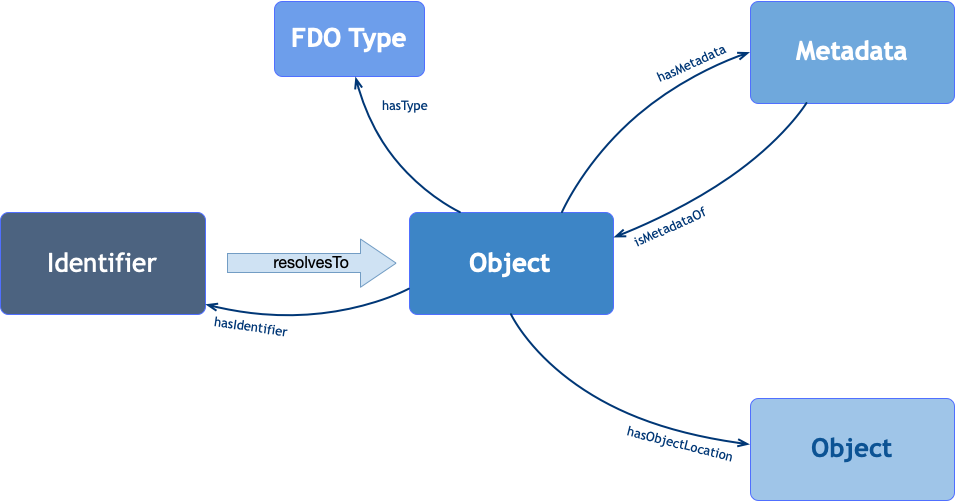
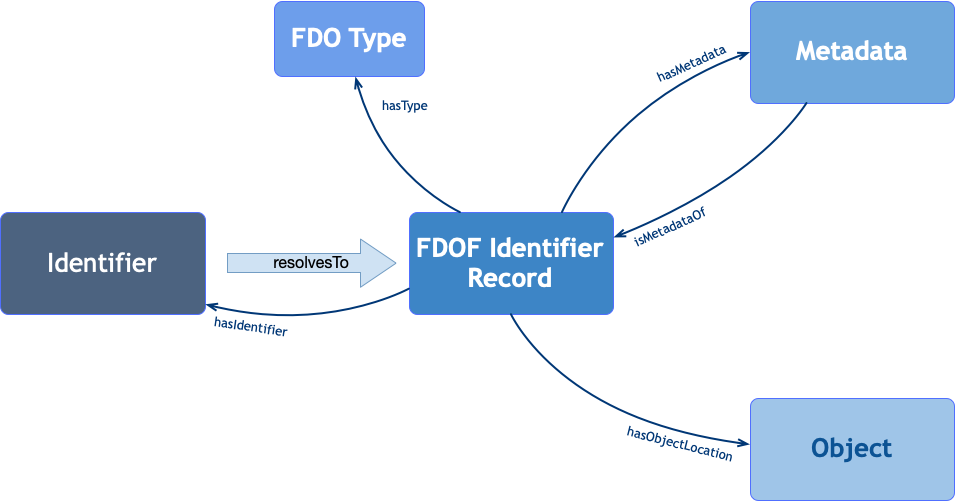
Adjusted figure FDOF-IR

Changed region(s): [[0.4247, 0.4491, 0.637, 0.5988]]

diff --git a/index.html b/index.html
@@ -1,29 +1,32 @@
 <!doctype html><html lang="en">
- <head>
-  <meta charset="utf-8">
-  <meta content="text/html; charset=utf-8" http-equiv="Content-Type">
-  <meta name="viewport" content="width=device-width, initial-scale=1, shrink-to-fit=no">
-  <title>FAIR Digital Object Framework Documentation</title>
-  <link rel="stylesheet" href="W3C-REC.css">
-  <style>
-  .example::before {
-    content: "Example";
-    content: "Example " counter(example);
-  }
-  #example + p + p.example::before {
-    content: "";
-  }
-  .overlarge {
-    margin: 0 !important;
-  }
-  </style>
- </head>
- <body class="h-entry">
-  <div class="head">
-   <h1 id="title">FAIR Digital Object Framework Documentation</h1>
-   <h2 id="subtitle">Working Draft, <time class="dt-updated" datetime="2020-04-05">05 April 2020</time></h2>
-   <div>
-    <dl>
+
+	<head>
+		<meta charset="utf-8">
+		<meta content="text/html; charset=utf-8" http-equiv="Content-Type">
+		<meta name="viewport" content="width=device-width, initial-scale=1, shrink-to-fit=no">
+		<title>FAIR Digital Object Framework Documentation</title>
+		<link rel="stylesheet" href="W3C-REC.css">
+		<style>
+			.example::before {
+				content: "Example";
+				content: "Example " counter(example);
+			}
+			#example + p + p.example::before {
+				content: "";
+			}
+			.overlarge {
+				margin: 0 !important;
+			}
+		</style>
+	</head>
+	
+	<body class="h-entry">
+		<div class="head">
+			<h1 id="title">FAIR Digital Object Framework Documentation</h1>
+			<h2 id="subtitle">Working Draft, <time class="dt-updated" datetime="2020-04-05">05 April 2020</time></h2>
+			
+			<div>
+				<dl>
      <!--dt>This version:
      <dd><a class="u-url" href="http://fantasai.inkedblade.net/style/design/w3c-restyle/2016/">http://fantasai.inkedblade.net/style/design/w3c-restyle/2016/</a>
      <dt>Latest version:
@@ -37,22 +40,23 @@
      <dt>Issue Tracking:
      <dd><a href="https://github.com/w3c/tr-design/issues/">GitHub</a>
      <dd><a href="#issues-index">Inline In Spec</a-->
-     <dt class="editor">Editor:
-     <dd class="editor p-author h-card vcard"><a class="p-name fn u-url url" href="mailto:l.o.bonino@utwente.nl">Luiz Olavo Bonino da Silva Santos</a> (<span class="p-org org">University of Twente, Leiden University Medical Center, GO FAIR International Support and Coordination Office</span>)
-    </dl>
-   </div>
-   <div></div>
-   <hr title="Separator for header">
-  </div>
-  <h2 id="abstract">Abstract</h2>
-  <div>
-	  <p>The FAIR Digital Object Framework (FDOF) defines a model to represent objects in a digital environment. This document discusses the motivations for the framework and describes its elements and the interactions between them.</p>
-  </div>
-  <h2 id="status">Status of this document</h2>
-  <div>
-   <p>This document is the first draft of the FDOF documentation and serves as the basis for the further development and refinement of the framework.</p>
-   <p></p>
-  </div>
+
+					<dt class="editor">Editor:</dt>
+					<dd class="editor p-author h-card vcard"><a class="p-name fn u-url url" href="mailto:l.o.bonino@utwente.nl">Luiz Olavo Bonino da Silva Santos</a> (<span class="p-org org">University of Twente, Leiden University Medical Center, GO FAIR International Support and Coordination Office</span>)</dd>
+				</dl>
+			</div>
+			<div></div>
+			<hr title="Separator for header"/>
+		</div>
+		<h2 id="abstract">Abstract</h2>
+		<div>
+			<p>The FAIR Digital Object Framework (FDOF) defines a model to represent objects in a digital environment. This document discusses the motivations for the framework and describes its elements and the interactions between them.</p>
+		</div>
+		<h2 id="status">Status of this document</h2>
+		<div>
+			<p>This document is the first draft of the FDOF documentation and serves as the basis for the further development and refinement of the framework.</p>
+			<p></p>
+		</div>
 
 	 <!--
 <nav id="toc">
@@ -202,82 +206,86 @@
 </nav>
 
 -->
-<main>
-<h2 id="intro">
-<span class="secno">1 </span> Introduction</h2>
-  
-	<p>The <a href="https://www.nature.com/articles/sdata201618">FAIR principles</a> provide a vision of a global ecosystem of dynamically interoperable digital objects such as data, services and computing capacity. This vision entails the requirement to provide machines with  enough actionable information about each of these types of objects so they can automate as much as possible their integration and interoperation. However, to fully realise this vision, we need an infrastructure capable of supporting the interoperation of digital objects according to the requirements defined by the <a href="https://www.nature.com/articles/sdata201618">FAIR principles</a>.</p>
-	
-	<p>The evolution of the informatics infrastructure  happens in incremental and complementary steps. After the emergence of the computers we felt the need to interconnect them in computer networks. From this, a natural need emerged to integrate different computer networks, which was achieved on a global scale by the Internet through its Internet Protocol (IP) and TCP/UDP protocols. The Internet allows the transportation of digital packets/datagrams from a source  to a destination host across different networks. A given content to be transmitted is broken down in a number of parts named packets. A header is added to each packet containing information necessary to deliver the packet from the source host to its destination. Once all the packets reach the destination, their content is reassembled. Therefore, the Internet does not deal with content besides transporting it through different networks.</p>
-	
- <p>Once the problem of transporting digital content across different networks has been solved by the Internet, the next challenge in interoperability became the interlinking of Internet resources. The World Wide Web solves this problem by defining another protocol named the <a href="https://en.wikipedia.org/wiki/Hypertext_Transfer_Protocol">HyperText Transfer Protocol</a> (HTTP), which provides a mechanism to interrelate resources through hyperlinks. HTTP provides methods to retrieve, create, add, edit and delete Web resources. Web resources are differentiated, with respect to the WWW infrastructure, only by their serialisation formats (MIME types), e.g., an HTML page, an XML file, a JPG/GIF/PNG image, a MP4 video, etc. The actual nature of the resources, i.e., if they represent a given scientific observation, the results of a match or a person, and of the relations between resources are not considered by the Web infrastructure.</p>
-	
-	<p>For the work with data and metadata, these aforementioned infrastructures still pose challenges, especially if we add the requirements of the FAIR principles. The first principle (F1) states that metadata and data should be identified by globally unique and persistent identifiers. Related to this, the FAIR principle A1 requires that metadata and data are retrievable by their identifier using a standardized communications protocol. This means that from the identifiers we should be able to resolve them to something related to the identified entity. Some identifiers are an arbitrary sequence of characters (e.g., <a href="https://www.doi.org" target="_blank">DOI</a>) while others are already presented in a resolvable format (<a href="https://tools.ietf.org/html/rfc3986">URI</a>). With identifiers from the former case, unless the type of identifier and how to create a resolvable link from the identifier is previously known, it is not straightforward to resolve them. Moreover, once we manage to get the resolvable link and try to resolve it, another challenge is what to expect when the identifier is resolved. Currently we are lacking a commonly agreed and predictable resolution behavior, which is an obstacle for artificial agents since, in some occasions, an identifier resolves to its target object, some other times to its metadata and other times to a human-readable HTML landing page.</p>
-	
-	<p>These identified challenges to apply the FAIR principles in the current communication infrastructure were the main motivators for the work on FDOF. And the initial results of this work is reported in this document</p>
 
-<h2 id="fdofhistory">
-<span class="secno">2 </span>A brief history of Digital Objects, FAIR Digital Objects and FAIR Digital Object Framework</h2>
-	
-	<p>The concept of <strong>Digital Object</strong> (DO) (in capital letters to denote a particular definition for representing and manipulating digital entities) has been introduced by Robert Kahn in the early 1990s. In his work, Kahn, and later other colleagues, define <em>digital objects</em> as the basic entities of a digital system that are stored, accessed, disseminated and managed. They also defined naming conventions for identifying and locating digital objects as well as described services for using object names to locate and disseminate objects, and provided an access protocol.</p>
-	
-	<p>Later on, the work on DOs has been improved by the definition of the Digital Object Achitecture (DOA) to address the need to support information management beyond just moving information in digital form from one location to another as allowed by the internet. DOA aims at improving interoperability across participating information systems. As defined by the <a href="https://www.dona.net/">DONA Foundation</a> in its<a hreaf="https://www.dona.net/digitalobjectarchitecture"> DOA page, the Digital Object Architecture is composed of:</p>
-	
-	<ul>
-		<li><strong>Digital Object</strong>: "<em>a sequence of bits, or a set of sequences of bits, incorporating a work or portion of a work or other information in which a party has rights or interests, or in which there is value, each of the sequences being structured in a way that is interpretable by one or more of the computational facilities, and having as an essential element an associated unique persistent identifier.</em>"</li>
-		<li><strong>Digital Object Interface Protocol (DOIP)</strong>: "<em>a simple, but powerful conceptual protocol for software applications (“clients”) to interact with “services” which could be either the digital objects or the information systems that manage those digital objects.</em>". The latest specification of DOIP can be found <a href="https://www.dona.net/sites/default/files/2018-11/DOIPv2Spec_1.pdf">here</a>.</li>
-		<li><strong>Identifier/Resolution Protocol (IRP)</strong>: "<em>a rapid-resolution protocol for creating, updating, deleting, and resolving identifiers that are globally managed and allotted. Each identifier is associated with a record that clients can resolve to using this protocol.</em>". </li>
-		<li><strong>Identifier/Resolution System</strong>: the system enables:
+		<main>
+			<h2 id="intro"><span class="secno">1 </span> Introduction</h2>
+			
+			<p>The <a href="https://www.nature.com/articles/sdata201618">FAIR principles</a> provide a vision of a global ecosystem of dynamically interoperable digital objects such as data, services and computing capacity. This vision entails the requirement to provide machines with  enough actionable information about each of these types of objects so they can automate as much as possible their integration and interoperation. However, to fully realise this vision, we need an infrastructure capable of supporting the interoperation of digital objects according to the requirements defined by the <a href="https://www.nature.com/articles/sdata201618">FAIR principles</a>.</p>
+			
+			<p>The evolution of the informatics infrastructure  happens in incremental and complementary steps. After the emergence of the computers we felt the need to interconnect them in computer networks. From this, a natural need emerged to integrate different computer networks, which was achieved on a global scale by the Internet through its Internet Protocol (IP) and TCP/UDP protocols. The Internet allows the transportation of digital packets/datagrams from a source  to a destination host across different networks. A given content to be transmitted is broken down in a number of parts named packets. A header is added to each packet containing information necessary to deliver the packet from the source host to its destination. Once all the packets reach the destination, their content is reassembled. Therefore, the Internet does not deal with content besides transporting it through different networks.</p>
+
+			<p>Once the problem of transporting digital content across different networks has been solved by the Internet, the next challenge in interoperability became the interlinking of Internet resources. The World Wide Web solves this problem by defining another protocol named the <a href="https://en.wikipedia.org/wiki/Hypertext_Transfer_Protocol">HyperText Transfer Protocol</a> (HTTP), which provides a mechanism to interrelate resources through hyperlinks. HTTP provides methods to retrieve, create, add, edit and delete Web resources. Web resources are differentiated, with respect to the WWW infrastructure, only by their serialisation formats (MIME or media types), e.g., an HTML page, an XML file, a JPG/GIF/PNG image, a MP4 video, etc. The actual nature of the resources, i.e., if they represent a given scientific observation, the results of a match or a person, and of the relations between resources are not considered by the Web infrastructure.</p>
+
+			<p>In the digital realm, we constantly interact with different types of entities, or objects. Examples of such objects are software, software code, dataset and metadata, among others. These objects have different nature. For instance, the nature of a dataset is being a collection of data items grouped because they are interrelated somehow while a software code is a set of instructions written in a programming language that are compiled or interpreted by computers that guide their behaviour. Because of their different nature, each one of these types of digital objects require different ways of interaction. In an increasingly complex digital environment where automation becomes a necessity, the identification of these different types of digital objects become relevant as well as the qualification of the relations between them. This brings additional requirements to the digital ecosystem, which is not properly covered by the internet and World Wide Web.</p>
+
+			<p>The FAIR principles add yet another set of requirements for the aforementioned digital infrastructures. For instance, the first principle (F1) states that metadata and data should be identified by globally unique and persistent identifiers. Related to this, the FAIR principle A1 requires that metadata and data are retrievable by their identifier using a standardized communications protocol. This means that from the identifiers we should be able to resolve them to something related to the identified entity. Some identifiers are an arbitrary sequence of characters (e.g., <a href="https://www.doi.org" target="_blank">DOI</a>) while others are already presented in a resolvable format (<a href="https://tools.ietf.org/html/rfc3986">URI</a>). With identifiers from the former case, unless the type of identifier and how to create a resolvable link from the identifier is previously known, it is not straightforward to resolve them. Moreover, once we manage to get the resolvable link and try to resolve it, the next challenge is what to expect when the identifier is resolved. Currently we lack a commonly agreed and predictable resolution behavior, which is an obstacle for artificial agents since, in some occasions, an identifier resolves to its target object, some other times to its metadata and other times to a human-readable HTML landing page.</p>
+
+			<p>The challenges to apply the FAIR principles in the current digital communication infrastructure were the main motivators for the work on the FAIR Digital Object Framework. The results of this work are reported in this document</p>
+			
+			<h2 id="fdofhistory"><span class="secno">2 </span>A brief history of Digital Objects, FAIR Digital Objects and FAIR Digital Object Framework</h2>
+			
+			<p>The concept of <strong>Digital Object</strong> (DO) (in capital letters to denote a particular definition for representing and manipulating digital entities) has been introduced by Robert Kahn in the early 1990s. In his work, Kahn, and later other colleagues, define <em>digital objects</em> as the basic entities of a digital system that are stored, accessed, disseminated and managed. They also defined naming conventions for identifying and locating digital objects as well as described services for using object names to locate and disseminate objects, and provided an access protocol.</p>
+			
+			<p>Later on, the work on DOs has been improved by the definition of the Digital Object Achitecture (DOA) to address the need to support information management beyond just moving information in digital form from one location to another as allowed by the internet. DOA aims at improving interoperability across participating information systems. As defined by the <a href="https://www.dona.net/">DONA Foundation</a> in its <a href="https://www.dona.net/digitalobjectarchitecture">Digital Object Architecture</a> is composed of:</p>
+			
 			<ul>
-				<li>"<em>allotment of unique identifiers to information in digital form structured as digital objects regardless of the location of such information or the technology used to serve such information;</em>"</li>
-				<li>"<em>the resolution of the identifiers to current state information about the corresponding digital object, e.g., its location(s), access & usage policies, timestamps, and/or public keys.</em>"</li>
+				<li><strong>Digital Object</strong>: "<em>a sequence of bits, or a set of sequences of bits, incorporating a work or portion of a work or other information in which a party has rights or interests, or in which there is value, each of the sequences being structured in a way that is interpretable by one or more of the computational facilities, and having as an essential element an associated unique persistent identifier.</em>"</li>
+				
+				<li><strong>Digital Object Interface Protocol (DOIP)</strong>: "<em>a simple, but powerful conceptual protocol for software applications (“clients”) to interact with “services” which could be either the digital objects or the information systems that manage those digital objects.</em>". The latest specification of DOIP can be found <a href="https://www.dona.net/sites/default/files/2018-11/DOIPv2Spec_1.pdf">here</a>.</li>
+				
+				<li><strong>Identifier/Resolution Protocol (IRP)</strong>: "<em>a rapid-resolution protocol for creating, updating, deleting, and resolving identifiers that are globally managed and allotted. Each identifier is associated with a record that clients can resolve to using this protocol.</em>". </li>
+				
+				<li><strong>Identifier/Resolution System</strong>: the system enables:
+					<ul>
+						<li>"<em>allotment of unique identifiers to information in digital form structured as digital objects regardless of the location of such information or the technology used to serve such information;</em>"</li>
+						<li>"<em>the resolution of the identifiers to current state information about the corresponding digital object, e.g., its location(s), access & usage policies, timestamps, and/or public keys.</em>"</li>
+					</ul>
+				</li>
+				
+				<li><strong>Repository System</strong>: "<em>manages digital objects including the provision of access to such objects based on the use of identifiers, and with integrated security. Through the use of identifiers in the access protocol, the repository system abstracts away the details of the storage technologies from the clients enabling a long-lived mechanism for depositing and accessing digital objects. Access to this system is enabled using the DOIP.</em>"</li>
+				
+				<li><strong>Registry System</strong>: "<em>The registry system is a specialized repository system intended to store metadata about digital objects rather than the digital information itself, and typically stores metadata of digital objects that are managed by one or more repository systems. Access to this system is enabled using the DOIP as well.</em>"</li>
 			</ul>
-		</li>
-		<li><strong>Repository System</strong>: "<em>manages digital objects including the provision of access to such objects based on the use of identifiers, and with integrated security. Through the use of identifiers in the access protocol, the repository system abstracts away the details of the storage technologies from the clients enabling a long-lived mechanism for depositing and accessing digital objects. Access to this system is enabled using the DOIP.</em>"</li>
-		<li><strong>Registry System</strong>: "<em>The registry system is a specialized repository system intended to store metadata about digital objects rather than the digital information itself, and typically stores metadata of digital objects that are managed by one or more repository systems. Access to this system is enabled using the DOIP as well.</em>"</li>
-	</ul>
-	
-	<p>After the publication of the FAIR principles in March 2016, the idea around the Digital Objects evolved to the concept of a FAIR Digital Object in order to better align the features of DOs with the aspects highlighted by the FAIR principles. Since the FAIR principles put significant importance on metadata, one major adittion to the original concept of DO was the introduction of metadata as a particular type of digital object that is used to describe other objects.</p>
-	
-	<p>The term <strong>FAIR Digital Object</strong> (FDO) was first mentioned in a publication in November 2018 in the report named <a href="https://ec.europa.eu/info/publications/turning-fair-reality_en">Turning FAIR into reality</a>, of the European Commission's 2nd High-Level Expert Group on the European Open Science Cloud (EOSC). In this report the author state that the FAIR Digital Objects "<em>represent data, software or other research resources</em>" and "<em>must be accompanied by persistent identifiers, metadata and contextual documentation to enable discovery, citation and reuse</em>".</p>
-	
-	<p>After the publication of the report, the concept of FDO has been constantly worked and refined in a number of <a href="https://www.rd-alliance.org">RDA</a> Interest and Working groups, in particular by the Group of European Data Experts (GEDE).</p>
-	
-	<p>With the experience in designing technologies and approaches for realising the FAIR principles since the original meeting in January 2014, we have identified a number of challenges to accomplish this goal given the current technologic landscape. In 2019, Luiz Bonino tried to combine features from the (FAIR) Digital Objects with some approaches and features from the Linked Data community, in particular the Linked Data Platform. This experiment led to the emmergence of the FAIR Digital Object Framework (see details in the following sections), which adopts the predictable resolution behavior of the (FAIR) Digital Object approach, its idea of resolving the identifier into a set of information about the object, including its type, metadata and location, and using qualified concepts and relations from Linked Data to better provides machine-actionable semantic descriptions and annotations to the elements of the Framework.</p>
-	
-	<p>The proposal for the FDOF has been first discussed with Barend Mons and George Strawn and, after a few refinements, together with Peter Wittenburg, a series of meetings in Europe, the USA and online involving a number of stakeholders involved in both (F)DO (Peter Wittenburg, Larry Lannon, Robert Quick and others) and Linked Data (Jean-François Abramatic, Eric Prud-hommeaux and others) efforts. These meetings culminated in a gathering at the Paris Observatory on October 28 and 29, 2019. In this meeting a group of representatives of different research communities, RDA, CODATA, GO FAIR, US NAS and EOSC discussed the proposed approach, considered it a promissing candidate for the core technology of the FAIR ecosystem and committed to continue the refinement and evaluation of the framework towards a "<em>running code</em>" phase where a Proof-of-Concept (PoC) is implemented for testing and demonstration. In this context, this document aims at laying the basic description of the FDOF to guide the discussions around the framework and the implementation of the PoC.</p>
-	
-	
-<h2 id="fdomodel">
-<span class="secno">3 </span>The FAIR Digital Object model</h2>
-	
- <p role="note">TO DO: Describe the FDO model</p>
-
-	
-<h2 id="resbehaviour">
-<span class="secno">4 </span>Identifier resolution behaviour</h2>
-	
-	<p>In the context of machine-actionability, it is expected that identifiers of digital assets behave in a predictable way so that the artificial agents can know what to expect when an identifier is resolved. Currently, that is not always the case. Current identification systems (Handle system, URIs, etc.) rely on the user's discipline and best practices. For instance, on the Web, someone could use an URI to identify a particular PDF file but the URI may not resolve to anything or it may resolve to something else than the identified object, for instance an HTML page. Similarly, some DOIs resolve to the actual identified object, some to its metadata and many to a landing page. For artificial agents, landing pages are particularly challenging because it is not always (if ever) clear which of the potentially many links present in the page corresponds to the object identified by the DOI.</p>
-	
-	<p>To tackle this issue, the FDOF defines a predictable resolution behaviour. This behaviour is borrowed from the approach used by the Digital Object in which the identifier resolves to an artefact containing relevant information about the object. In FDOF, this artefact is named FDOF's Identifier Record (IR) and contains:</p>
-	
-	<ul>
-		<li>A reference to the object's type;</li>
-		<li>Reference(s) to the object's metadata record(s); and</li>
-		<li>Reference(s) to the object's location(s).</li>
-	</ul>
-	
-	<p>Strictly speaking, the IR is, of course, a type of metadata. In FDOF we opted to differentiate the three pieces of metadata information contained in the IR from other types of metadata information (e.g., provenance, keys, serialization format, size, etc.). The reason behind this differentiation is to separate the minimal information required by the infrastructure to the additional information that can be used by applications, agreed upon by communities, etc. In this way, we can guarantee that any FDOF-enabled applications is able to have the option to identify the type of the object (through the object type reference), directly operate on the object (through the object's location reference) or get more information about the object (through the metadata reference). Other information about the object <strong>SHOULD</strong> be placed in the metadata record(s).</p>
-	
-	 <p>As depicted on Figure 1, the IR presents the information listed above using specific predicates to relate the identifier of the object to the identifiers of its type, its metadata record(s) and its location(s). Moreover, the FDOF-IR <strong>MUST</strong> be presented as RDF, preferably turtle or JSON-LD. This requirement allows not only a predictability of the identifier resolution behaviour but also of the serialisation format of the FDOF-IR, facilitating the implementation of client applications. These client applications would expect to retrieve a FDOF-IR as result of the identifier resolution and can be coded to parse and interpret RDF documents.</p>
-	
-	<figure>
-		<p><img src="diagrams/FDOF-IR.png" alt="FDOF-IR"/></p>
-		<figcaption><span class="marker">Figure 1</span> The FDOF identifier resolution</figcaption>
-	</figure>
-		
-	<p>The following code excerpt is an example of the FDOF-IR in RDF turtle serialisation:</p>
-	<code>
+			
+			<p>After the publication of the FAIR principles in March 2016, the idea around the Digital Objects evolved to the concept of a FAIR Digital Object in order to better align the features of DOs with the aspects highlighted by the FAIR principles. Since the FAIR principles put significant importance on metadata, one major adittion to the original concept of DO was the introduction of metadata as a particular type of digital object that is used to describe other objects.</p>
+			
+			<p>The term <strong>FAIR Digital Object</strong> (FDO) was first mentioned in a publication in November 2018 in the report named <a href="https://ec.europa.eu/info/publications/turning-fair-reality_en">Turning FAIR into reality</a>, of the European Commission's 2nd High-Level Expert Group on the European Open Science Cloud (EOSC). In this report the author state that the FAIR Digital Objects "<em>represent data, software or other research resources</em>" and "<em>must be accompanied by persistent identifiers, metadata and contextual documentation to enable discovery, citation and reuse</em>".</p>
+			
+			<p>After the publication of the report, the concept of FDO has been constantly worked and refined in a number of <a href="https://www.rd-alliance.org">RDA</a> Interest and Working groups, in particular by the Group of European Data Experts (GEDE).</p>
+			
+			<p>With the experience in designing technologies and approaches for realising the FAIR principles since the original meeting in January 2014, we have identified a number of challenges to accomplish this goal given the current technologic landscape. In 2019, Luiz Bonino tried to combine features from the (FAIR) Digital Objects with some approaches and features from the Linked Data community, in particular the Linked Data Platform. From this  experiment FAIR Digital Object Framework emerged (see details in the following sections), which combined the predictable resolution behavior of the (FAIR) Digital Object approach, its idea of resolving the identifier into a set of information about the object, including its type, metadata and location; and the techniques from ontology-driven conceptual modeling, Linked Data and Semantic Web to  provide machine-actionable semantic descriptions and annotations to the elements of the Framework.</p>
+			
+			<p>The proposal for the FDOF has been first discussed with Barend Mons and George Strawn. After a few refinement iterations, together with Peter Wittenburg, a series of meetings were organized in Europe, the USA and online involving a number of stakeholders involved in both (F)DO (Peter Wittenburg, Larry Lannon, Robert Quick and others) and Linked Data (Jean-François Abramatic, Eric Prud-hommeaux and others) efforts. These meetings culminated in a gathering at the Paris Observatory on October 28 and 29, 2019. In this meeting a group of representatives of different research communities, RDA, CODATA, GO FAIR, US NAS and EOSC discussed the proposed approach, considered it a promissing candidate for the core technology of the FAIR ecosystem and committed to continue the refinement and evaluation of the framework towards a "<em>running code</em>" phase where a Proof-of-Concept (PoC) is implemented for testing and demonstration. In this context, this document aims at laying the basic description of the FDOF to guide the discussions around the framework and the implementation of the PoC.</p>
+			
+			<h2 id="fdomodel"><span class="secno">3 </span>The FAIR Digital Object Framework model</h2>
+			
+			<p></p>
+			
+			<p role="note">TO DO: Describe the FDOF model</p>
+			
+			<h2 id="resbehaviour"><span class="secno">4 </span>Identifier resolution behaviour</h2>
+			
+			<p>In the context of machine-actionability, it is expected that identifiers of digital assets behave in a predictable way so that the artificial agents can know what to expect when an identifier is resolved. Currently, that is not always the case. Current identification systems (Handle system, URIs, etc.) rely on the user's discipline and best practices. For instance, on the Web, someone could use an URI to identify a particular PDF file but the URI may not resolve to anything or it may resolve to something else than the identified object, for instance an HTML page. Similarly, some DOIs resolve to the actual identified object, some to its metadata and many to a landing page. For artificial agents, landing pages are particularly challenging because it is not always (if ever) clear which of the potentially many links present in the page corresponds to the object identified by the DOI.</p>
+			
+			<p>To tackle this issue, the FDOF defines a predictable resolution behaviour. This behaviour is borrowed from the approach used by the Digital Object in which the identifier resolves to an artefact containing relevant information about the object. In FDOF, this artefact is named FDOF's Identifier Record (IR) and contains:</p>
+			
+			<ul>
+				<li>A reference to the object's type;</li>
+				<li>Reference(s) to the object's metadata record(s); and</li>
+				<li>Reference(s) to the object's location(s).</li>
+			</ul>
+			
+			<p>Strictly speaking, the IR is, of course, a type of metadata. In FDOF we opted to differentiate the three pieces of metadata information contained in the IR from other types of metadata information (e.g., provenance, keys, serialization format, size, etc.). The reason behind this differentiation is to separate the minimal information required by the infrastructure to the additional information that can be used by applications, agreed upon by communities, etc. In this way, we can guarantee that any FDOF-enabled applications is able to have the option to identify the type of the object (through the object type reference), directly operate on the object (through the object's location reference) or get more information about the object (through the metadata reference). Other information about the object <strong>SHOULD</strong> be placed in the metadata record(s).</p>
+			
+			<p>As depicted on Figure 1, the IR presents the information listed above using specific predicates to relate the identifier of the object to the identifiers of its type, its metadata record(s) and its location(s). Moreover, the FDOF-IR <strong>MUST</strong> be presented as RDF, preferably turtle or JSON-LD. This requirement allows not only a predictability of the identifier resolution behaviour but also of the serialisation format of the FDOF-IR, facilitating the implementation of client applications. These client applications would expect to retrieve a FDOF-IR as result of the identifier resolution and can be coded to parse and interpret RDF documents.</p>
+			
+			<figure>
+				<p><img src="diagrams/FDOF-IR.png" alt="FDOF-IR"/></p>
+				<figcaption><span class="marker">Figure 1</span> The FDOF identifier resolution</figcaption>
+			</figure>
+			
+			<p>The following code excerpt is an example of the FDOF-IR in RDF turtle serialisation:</p>
+			<code>
 		&lt;fdoIdentifier&gt; fdof-o:hasType &lt;FDOType&gt<br>
 		&nbsp;fdof-o:hasMetadata &lt;metadataIdentifier&gt;<br>
 		&nbsp;fdof-o:hasObjectLocation &lt;ObjectLocation&gt; .<br>
@@ -290,19 +298,19 @@
 		<!--<span class="marker">EXAMPLE 1</span>-->
 		Given the identifier <code>example.com/myImageID</code>, we could use the regular Web infrastructure to resolve the identifier directly into my image: <code>https://example.com/myImageID</code>. However, if this object is part of the FDOF, it could also be resolved using the FDOF identifier resolution protocol by using <code>fdof://example.com/myImageID</code>. In this case, the protocol would return the FDOF Identifier Record containing the objects type reference, metadata reference(s) and location reference(s).
 	</p>
-	
-<h2 id="resbehaviour">
-<span class="secno">5 </span>FDOF Core Ontology</h2>
-	<p>As previously mentioned, the FDOF adopts Semantic Web and Linked Data approaches to provide qualified references to machine-actionable semantic descriptions and annotations to its elements. The semantic descriptions of the core elements of the framework are defined in the FDOF Core Ontology (FDOF-CO). The FDOF-CO is grounding in the Unified Foundational Ontology (UFO) as it provides a solid set of ontological theories relevant to the aims of reducing ambiguity and maximizing conceptual precision and clarity to the descriptions.</p>
-	
-	<p>In the following table we list the elements of the FDOF-CO and a brief explanation for each of them.</p>
-	
+			
+			<h2 id="fdof-o"><span class="secno">5 </span>FDOF Core Ontology</h2>
+			<p>As previously mentioned, the FDOF adopts Semantic Web and Linked Data approaches to provide qualified references to machine-actionable semantic descriptions and annotations to its elements. The semantic descriptions of the core elements of the framework are defined in the FDOF Core Ontology (FDOF-CO). The FDOF-CO is grounding in the Unified Foundational Ontology (UFO) as it provides a solid set of ontological theories relevant to the aims of reducing ambiguity and maximizing conceptual precision and clarity to the descriptions.</p>
+			
+			<p>In the following table we list the elements of the FDOF-CO and a brief explanation for each of them.</p>
+			
+			
 	<table class="propdef def">
 		<tbody>
 			<tr>
-				<th><dfn class="css" id="propdef-text-align">Name</dfn></th>
-				<th><dfn class="css" id="propdef-text-align">Type</dfn></th>
-				<td><dfn class="css" id="propdef-text-align">Description</dfn></td>
+				<th><dfn class="css" >Name</dfn></th>
+				<th><dfn class="css" >Type</dfn></th>
+				<td><dfn class="css" >Description</dfn></td>
 			</tr>
 			<tr>
 				<th>FAIR Digital Object</th>
@@ -364,7 +372,7 @@
 	
 	<p class="note">TODO: Add references to UFO. Complete the FDOF-CO. Present diagrams of the ontology and reference to its location. Refine and elaborate the FDOF-CO.</p>
 	
-<h2 id="intro">
+<h2 id="acknowledgments">
 	<span class="secno"> </span> Acknowledgments</h2>
   
  <p>My work on the FDOF did not started and does not continue to happen in a vacuum. As the name of the framework suggests, it has been based on the efforts of many people related to the FAIR and Digital Objects movements. In the DO arena, it started with Robert Kahn defining the initial ideas of Digital Objects followed by Larry Lannon, Robert Quick, Peter Wittenburg and many groups and members of the RDA community refining, expanding, testing and implementing it.</p>
@@ -1684,4 +1692,7 @@ to compare styling.
   </table>
 -->
 
-<script src="//www.w3.org/scripts/TR/2016/fixup.js"></script>
+		<script src="//www.w3.org/scripts/TR/2016/fixup.js"></script>
+		</main>
+	</body>
+</html>
